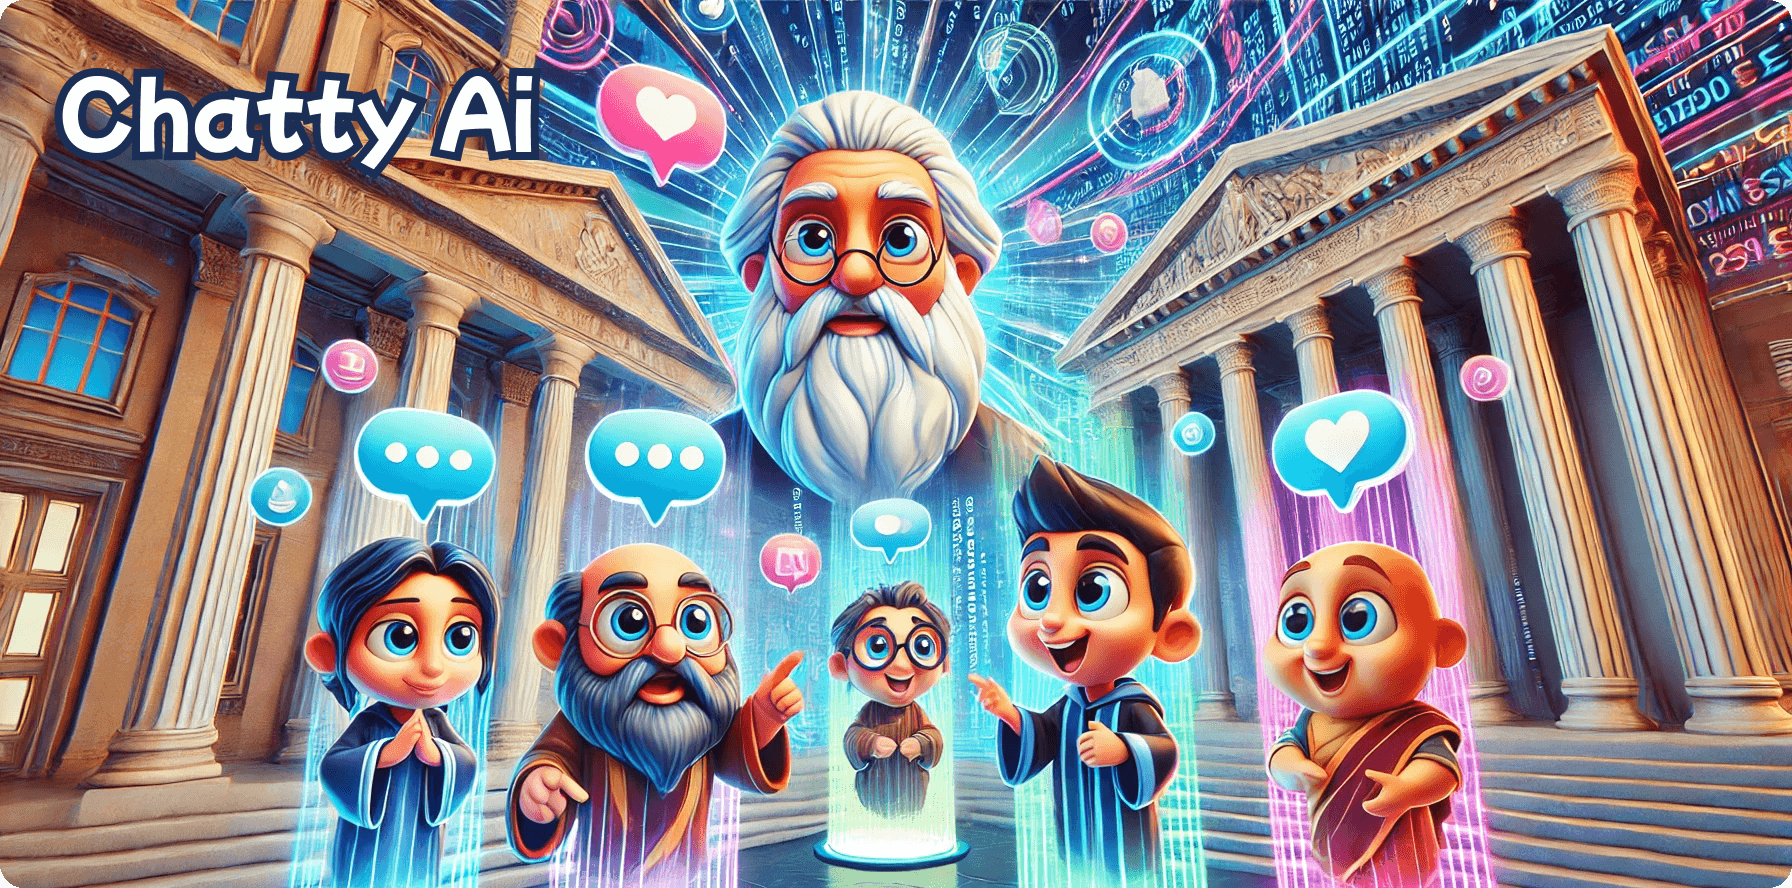
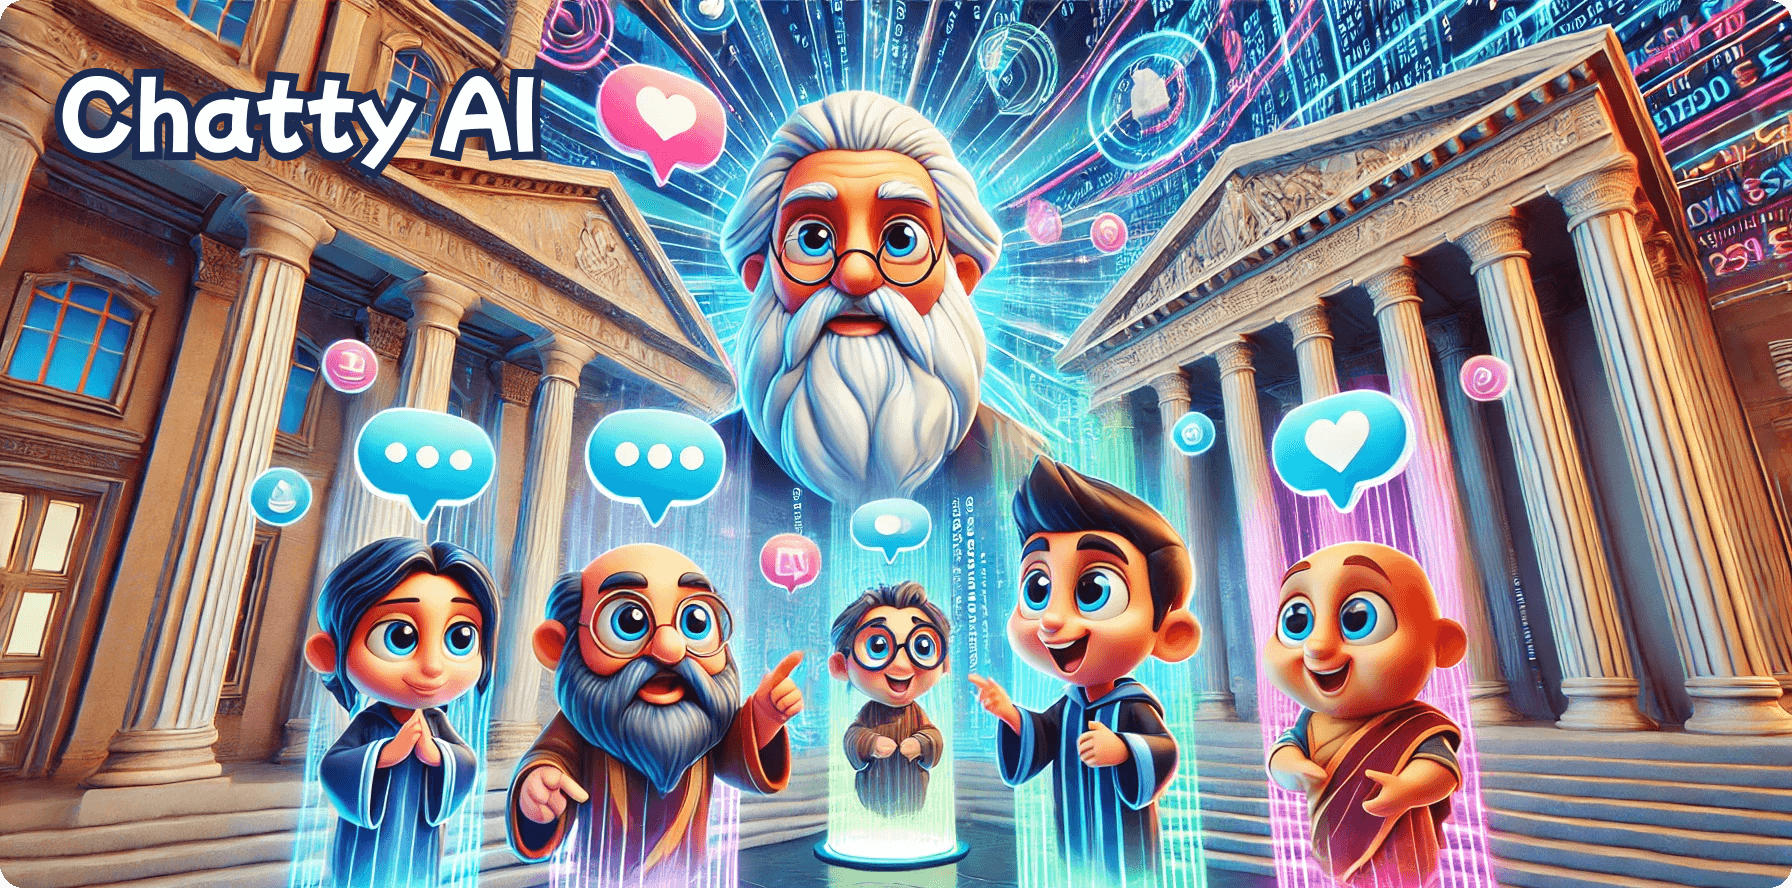
docs: update README file

diff --git a/README.md b/README.md
@@ -1,4 +1,4 @@
-# 💬 Chatty Ai · Your Terminal Time Machine
+# 💬 Chatty AI · Your Terminal Time Machine
 
 ![Chat AI Banner](images/chatty_ai_banner.png)
 
@@ -422,5 +422,5 @@ Found a bug? Have a cool idea? We'd love your help!
 
 ## 📄 License
 
-MIT License - Feel free to use, modify, and share!
-Copyright (c) 2024 [Your Name/Organization]
+GNU General Public License v3.0 - See [LICENSE](LICENSE) file for details.
+Copyright (c) 2025 Chatty AI
